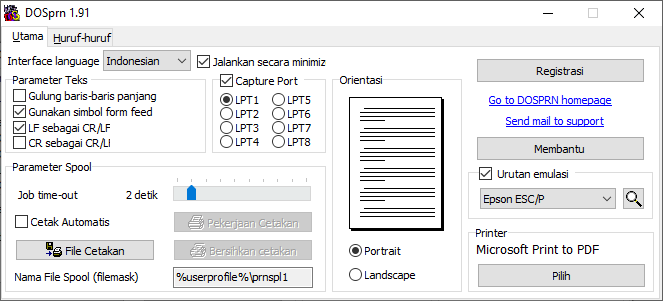
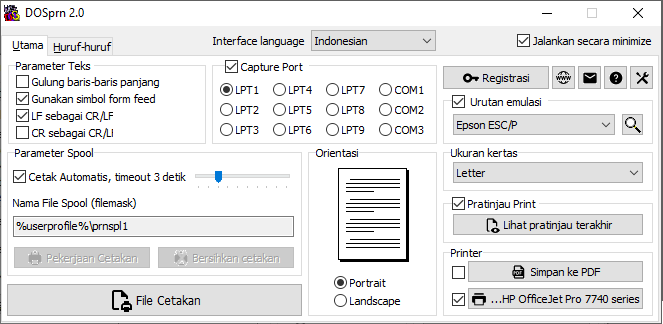
v2.0

diff --git a/readme.htm b/readme.htm
@@ -1,5 +1,5 @@
 <!DOCTYPE HTML PUBLIC "-//W3C//DTD HTML 4.0 Transitional//EN">
-<HTML><HEAD><TITLE>Manual DOSPRN 1.91</TITLE>
+<HTML><HEAD><TITLE>Manual DOSPRN 2.0</TITLE>
 <META http-equiv="Content-Type" content="text/html; charset=utf-8">
 <META http-equiv="Content-Language" content="id">
 <META name="Keywords"  content="DOS, printers, program, print, printer, USB, programs, LPT, DOS program, software, national, language, internanional" >
@@ -23,7 +23,7 @@
     <TD width="100%">      <table border="0" cellspacing="0" cellpadding="0">
         <tr>
           <td width="50"><IMG src="images/logo.gif" ALT="Mencetak dari DOS di ke/terhadap printer ber jalan pada Windows98, WinXP, Windows2000" width="42" height="39"></td>
-          <td width="281"><font size="6"><b>DOSPRN </b></font><font size="6"><b>1.91</b></font></td>
+          <td width="281"><font size="6"><b>DOSPRN </b></font><font size="6"><b>2.0</b></font></td>
           <td width="194">      
       <table border="2" bgcolor="#C0C0C0" cellpadding="4" cellspacing="4">
         <tr>
@@ -54,7 +54,7 @@
       <P>DOSPRN membantu untuk mengakhiri masalah ini. Anda dapat menggunakan ini dengan program DOS dan mengkombinasikan printer.</P>
       <P align="justify">DOSPRN didistribusikan sebagai<B> Shareware </B>Anda dapat pelajari bagaimana menggunakan DOSPRN selama waktu percobaan. Setelah periode ini, anda harus registrasi copyan anda atau hapus ini secara permanen dari komputer anda dengan utility uninstall pada Group Program DOSPRN. .</P>
       <H3 align="justify">Installasi</H3>
-      <P align="justify">Download dan jalankan file extract <I> <a href="https://www.dosprn.com/DOSprn191.exe">DOSprn191.exe</a></I> . Anda akan ditanyai beberapa pertanya-pertanyaan sederhana. Selama instalasi, DOSPRN mengcopy semua file yang diperlukan dan shortcut ke komputer anda. .</P>
+      <P align="justify">Download dan jalankan file extract <I> <a href="https://www.dosprn.com/DOSprn200.exe">DOSprn200.exe</a></I> . Anda akan ditanyai beberapa pertanya-pertanyaan sederhana. Selama instalasi, DOSPRN mengcopy semua file yang diperlukan dan shortcut ke komputer anda. .</P>
       <H3 align="justify">Program Start</H3>Anda dapat memulai DOSPRN dengan mengklik shotcut pada desktop anda atau pada forlder &quot;Statup&quot; (dalam hal ini anda telah memilih opsi ini selama penginstallan). Setalah menjalan DOSPRN, anda dapat menemukan iconnya pada area tray (dekat jam system, biasanya pada pojok kanan bawah), <IMG src="images/trayw8.gif" alt="Display icon and progress of printing in tray area" align="absMiddle" border="0"> DOSPRN siap untuk bekerja. . 
       <H3>Fitur-fitur Program</H3>
       <P>Jika anda klik kanan icon DOSPRN pada tray menu, anda akan melihat satu menu windows kecil. Menu ini memberikan akses ke opsi program utama. Opsi-opsi menu :<IMG src="images/popup.gif" ALT="Mangatur pencetakan DOS dengan menu popup" align="right" 

diff --git a/index.htm b/index.htm
@@ -1,6 +1,6 @@
 <!DOCTYPE HTML PUBLIC "-//W3C//DTD HTML 4.0 Transitional//EN">
 <HTML><HEAD><META name="verify-v1" content="sGZcTdiuqcbY81ijEB5h/fiesdTJtZN5i2KgOh+onKY=" /> 
-<TITLE>DOSPRN 1.91. Mencetak ke printer windows dari program dos</TITLE>
+<TITLE>DOSPRN 2.0. Mencetak ke printer windows dari program dos</TITLE>
 <META http-equiv="Content-Type" content="text/html; charset=utf-8">
 <META http-equiv="Content-Language" content="id">
 <META name="Keywords" content="mencetak printer dos,DOS, win, windows, win2k, windows2000, program, USB, program, LPT, program DOS, software, nasional, bahasa, international">
@@ -23,7 +23,7 @@
       <table border="0" cellspacing="0" cellpadding="0">
         <tr>
           <td width="50"><IMG src="images/logo.gif" ALT="Mencetak dari DOS di ke/terhadap printer ber jalan pada Windows98, WinXP, Windows2000" width="42" height="39"></td>
-          <td width="281"><font size="5"><b>DOSPRN&nbsp;1.91</b></font></td>
+          <td width="281"><font size="5"><b>DOSPRN&nbsp;2.0</b></font></td>
           <td width="194">      
       <table border="2" bgcolor="#C0C0C0" cellpadding="4" cellspacing="4">
         <tr>
@@ -55,7 +55,7 @@
       <P>DOSPRN memungkinkan anda untuk menggunakan satu program DOS tua baik dengan <b> baru</b> <b> printer</b> tanpa tergantung dari jenis mereka (Ya, USB dan printer jaringan, print-servers, dan PDF-printers juga!)</P>
       <P align="center"><IMG height="200" src="images/fontsw8.png" ALT="Windows huruf-huruf TrueType secara terpilih"></P>
       <P>DOSPRN juga bermanfaat jika satu program DOS adalah di/dalam anda <b> bahasa anda</b>. Jika printer anda tidak mendukung bahasa anda di/dalam gaya teks, DOSPRN akan satu penolong baik.</P>
-      <P>DOSPRN adalah didistribusikan sebagai shareware. Download ini <I><B> <A href="https://www.dosprn.com/DOSprn191.exe"> SEKARANG</A></B></I> 
+      <P>DOSPRN adalah didistribusikan sebagai shareware. Download ini <I><B> <A href="https://www.dosprn.com/DOSprn200.exe"> SEKARANG</A></B></I> 
       </P></TD></TR>
   <TR>
     <TD align="middle" width="550" height="26">

diff --git a/news.htm b/news.htm
@@ -1,5 +1,5 @@
 <!DOCTYPE HTML PUBLIC "-//W3C//DTD HTML 4.0 Transitional//EN">
-<HTML><HEAD><TITLE>Bagian baru DOSPRN 1.91</TITLE>
+<HTML><HEAD><TITLE>Bagian baru DOSPRN 2.0</TITLE>
 <META http-equiv="Content-Language" content="id">
 <META http-equiv="Content-Type" content="text/html; charset=utf-8">
 <META name="Keywords"  content="berita pencetakan dos, driver dos printer, printer dos, driver printer usb, perintah pencetakan dos, DOS, printer-printer, program, pencetakan, printer, USB, programs, LPT, program DOS, software, nasional, bahasa, international" >
@@ -23,7 +23,7 @@
     <TD width="100%">      <table border="0" cellspacing="0" cellpadding="0">
         <tr>
           <td width="50"><IMG src="images/logo.gif" ALT="Mencetak dari DOS di ke/terhadap printer ber jalan pada Windows98, WinXP, Windows2000" width="42" height="39"></td>
-          <td width="281"><font size="6"><b>DOSPRN </b></font><font size="6"><b>1.91</b></font></td>
+          <td width="281"><font size="6"><b>DOSPRN </b></font><font size="6"><b>2.0</b></font></td>
           <td width="194">      
       <table border="2" bgcolor="#C0C0C0" cellpadding="4" cellspacing="4">
         <tr>
@@ -51,6 +51,16 @@
   <TR>
     <TD width="100%">
       <H3>Hal Baru</H3>
+      <P><B>Version 2.0</B></P>
+      + menambahkan opsi <a href="print-preview.htm">Pratinjau Cetak</a><br>
+      + menambahkan opsi <a href="pdf-settings.htm">Cetak Ke PDF</a><br>
+      + menambahkan dukungan port serial COM1..COM3<br>
+      + menambahkan opsi layanan Simpan dan Muat pengaturan<br>
+      + menambahkan kemampuan untuk membuat <a href="inline-qrcode.htm">kode QR</a> dari teks yang disematkan dalam laporan<br>
+      + menambahkan antarmuka bahasa dalam bahasa Mandarin Tradisional<br>
+      + menambahkan emulasi parsial rangkaian ETEN Cina<br>
+      * perubahan antarmuka besar<br>
+      * perbaikan bug kecil<br>
       <P><B>Version 1.91</B></P>
       + dukungan tambahan port paralel yang diperluas LPT4..LPT8<br>
       * mode senyap tetap untuk aplikasi DOS layar penuh<br>

diff --git a/download.htm b/download.htm
@@ -1,5 +1,5 @@
 <!DOCTYPE HTML PUBLIC "-//W3C//DTD HTML 4.0 Transitional//EN">
-<HTML><HEAD><TITLE>download DOSPRN 1.91 sekarang</TITLE>
+<HTML><HEAD><TITLE>download DOSPRN 2.0 sekarang</TITLE>
 <META http-equiv="Content-Language" content="id">
 <META http-equiv="Content-Type" content="text/html; charset=utf-8">
 <META name="Keywords"  content="download dosprn" >
@@ -22,7 +22,7 @@
     <TD width="100%">      <table border="0" cellspacing="0" cellpadding="0">
         <tr>
           <td width="50"><IMG src="images/logo.gif" ALT="Mencetak dari DOS di ke/terhadap printer ber jalan pada Windows98, WinXP, Windows2000" width="42" height="39"></td>
-          <td width="281"><font size="6"><b>DOSPRN </b></font><font size="6"><b>1.91</b></font></td>
+          <td width="281"><font size="6"><b>DOSPRN </b></font><font size="6"><b>2.0</b></font></td>
           <td width="194">      
       <table border="2" bgcolor="#C0C0C0" cellpadding="4" cellspacing="4">
         <tr>
@@ -53,9 +53,9 @@
       <p>Kita betul-betul merekomendasikan bahwa anda secara menyeluruh me-review <satu href="readme.htm">Manual DOSPRN</satu> dan <satu href="faq.htm">kita FAQ</satu>.<br>
       <br>
 
-      <a href="https://www.dosprn.com/DOSprn191.exe">
+      <a href="https://www.dosprn.com/DOSprn200.exe">
 
-      Klik di sini untuk mendownload file <i>DOSprn191.exe (1.7 Mb)</i></a><br>
+      Klik di sini untuk mendownload file <i>DOSprn200.exe (1.7 Mb)</i></a><br>
       <br>
       DOSPRN akan mengingatkan anda tentang registrasi setiap kali anda cetakan laporan dari aplikasi DOS anda. Jika anda mempunyai pertanyaan apapun tentang DOSPRN silahkan merasakan bebas ke/pada <satu href="mailto:dukungan@dosprn.com"> menghubungi kami</satu>.</p>
       <p></p></TD></TR>

diff --git a/vox.htm b/vox.htm
@@ -1,5 +1,5 @@
 <!DOCTYPE HTML PUBLIC "-//W3C//DTD HTML 4.0 Transitional//EN">
-<HTML><HEAD><TITLE>DOSPRN 1.91 testimonials and user reviews</TITLE>
+<HTML><HEAD><TITLE>DOSPRN 2.0 testimonials and user reviews</TITLE>
 <META http-equiv=Content-Language content=en-us>
 <META http-equiv=Content-Type content="text/html; charset=utf-8">
 <META name=Description content="What spoke ordinary users and writers in technical reviews about DOSPRN software">
@@ -20,7 +20,7 @@
 <TABLE cellSpacing=0 cellPadding=6 width=50% style="max-width:640px" border=0>
   <TR>
     <TD width=100%>
-      <div style="float:left"><IMG src="images/logo.gif" ALT="DOS USB print under Windows 8, Windows 7, Windows XP, Windows2000, Windows98"> <font size="5"><b>&nbsp;DOSPRN&nbsp;1.91&nbsp;</b></font></div>
+      <div style="float:left"><IMG src="images/logo.gif" ALT="DOS USB print under Windows 8, Windows 7, Windows XP, Windows2000, Windows98"> <font size="5"><b>&nbsp;DOSPRN&nbsp;2.0&nbsp;</b></font></div>
   
       <table border="2" bgcolor="#C0C0C0" cellpadding="4" cellspacing="4">
         <tr>
@@ -149,7 +149,7 @@
           </td>
         </tr>
         <tr>
-          <td><i>Francis G. McCloskey &lt;FrFrancis&#64;OhSaratoga.com&gt;</i><p>&quot;...A small bunch of us are still using DOSprn 1.91 with out DOS EnableOA program and think it's 
+          <td><i>Francis G. McCloskey &lt;FrFrancis&#64;OhSaratoga.com&gt;</i><p>&quot;...A small bunch of us are still using DOSprn 2.0 with out DOS EnableOA program and think it's 
 	  the best DOS to Windows printers program out there..........&quot;</p>
           <hr width="90%" color="#008000">
           </td>

diff --git a/order.htm b/order.htm
@@ -1,5 +1,5 @@
 <!DOCTYPE HTML PUBLIC "-//W3C//DTD HTML 4.0 Transitional//EN">
-<HTML><HEAD><TITLE>order pencetakan dos DOSPRN 1.91</TITLE>
+<HTML><HEAD><TITLE>order pencetakan dos DOSPRN 2.0</TITLE>
 <META http-equiv="Content-Language" content="id">
 <META http-equiv="Content-Type" content="text/html; charset=utf-8">
 <META name="Keywords"  content="DOS print order, DSO print purchase, printers, program, print, printer, USB, programs, LPT, DOS program, software, national, language, internanional" >
@@ -23,7 +23,7 @@
     <TD width="100%">      <table border="0" cellspacing="0" cellpadding="0">
         <tr>
           <td width="50"><IMG src="images/logo.gif" ALT="Mencetak dari DOS di ke/terhadap printer ber jalan pada Windows98, WinXP, Windows2000" width="42" height="39"></td>
-          <td width="281"><font size="6"><b>DOSPRN </b></font><font size="6"><b>1.91</b></font></td>
+          <td width="281"><font size="6"><b>DOSPRN </b></font><font size="6"><b>2.0</b></font></td>
           <td width="194">      
       <table border="2" bgcolor="#C0C0C0" cellpadding="4" cellspacing="4">
         <tr>
@@ -65,7 +65,7 @@
 
       <P>
       If your DOSPRN's trial period has been expired now you can download and install
-      a <a href="https://www.dosprn.com/DOSprn191.exe">special "vacation" build</a> of DOSPRN 1.91. The trial period will be 
+      a <a href="https://www.dosprn.com/DOSprn200.exe">special "vacation" build</a> of DOSPRN 2.0. The trial period will be 
       expanded up to August, 1.
       </P>
 -->

diff --git a/sequences.htm b/sequences.htm
@@ -1,5 +1,5 @@
 <!DOCTYPE HTML PUBLIC "-//W3C//DTD HTML 4.0 Transitional//EN">
-<HTML><HEAD><TITLE>DOSPRN 1.91 supported ESC sequences</TITLE>
+<HTML><HEAD><TITLE>DOSPRN 2.0 supported ESC sequences</TITLE>
 <META http-equiv="Content-Type" content="text/html; charset=utf-8">
 <META name="Keywords"  content="dos printer driver, dos printer, dos usb driver, dos print command, DOS, printers, program, print, printer, USB, programs, LPT, DOS program, software, national, language, internanional" >
 <META name="Description"  content="DOSPRN memungkinkan untuk gunakan program dos favorit anda dengan printer-printer baru secara independen dari tipe-tipenya (ya dan USB juga !)" ><meta http-equiv="Content-Language" content="id"><!-- by Sisulizer -->
@@ -22,7 +22,7 @@
     <TD width="100%">      <table border="0" cellspacing="0" cellpadding="0" width="630">
         <tr>
           <td width="50"><IMG src="images/logo.gif" ALT="Mencetak dari DOS di ke/terhadap printer ber jalan pada Windows98, WinXP, Windows2000" width="42" height="39"></td>
-          <td width="345"><font size="6"><b>DOSPRN </b></font><font size="6"><b>1.91</b></font></td>
+          <td width="345"><font size="6"><b>DOSPRN </b></font><font size="6"><b>2.0</b></font></td>
           <td width="229">      
       <table border="2" bgcolor="#C0C0C0" cellpadding="4" cellspacing="4">
         <tr>

diff --git a/languages.htm b/languages.htm
@@ -5,7 +5,7 @@
 <meta name="Description" content="DOSPRN memungkinkan untuk gunakan program dos favorit anda dengan printer-printer baru secara independen dari tipe-tipenya (ya dan USB juga !)">
 <meta name="GENERATOR" content="Microsoft FrontPage 6.0">
 <meta name="ProgId" content="FrontPage.Editor.Document">
-<TITLE>Bahasa-bahasa yang didukung DOSPRN 1.91</TITLE>
+<TITLE>Bahasa-bahasa yang didukung DOSPRN 2.0</TITLE>
 <meta http-equiv="Content-Language" content="id"><!-- by Sisulizer -->
 <meta name=viewport content="width=device-width, initial-scale=1">
 
@@ -26,7 +26,7 @@
     <TD width="100%">      <table border="0" cellspacing="0" cellpadding="0">
         <tr>
           <td width="50"><IMG src="images/logo.gif" ALT="Mencetak dari DOS di ke/terhadap printer ber jalan pada Windows98, WinXP, Windows2000" width="42" height="39"></td>
-          <td width="281"><font size="6"><b>DOSPRN </b></font><font size="6"><b>1.91</b></font></td>
+          <td width="281"><font size="6"><b>DOSPRN </b></font><font size="6"><b>2.0</b></font></td>
           <td width="194">      
       <table border="2" bgcolor="#C0C0C0" cellpadding="4" cellspacing="4">
         <tr>

diff --git a/login.htm b/login.htm
@@ -1,5 +1,5 @@
 <!DOCTYPE HTML PUBLIC "-//W3C//DTD HTML 4.0 Transitional//EN">
-<HTML><HEAD><TITLE>DOSPRN 1.91 login user yang telah registrasi</TITLE>
+<HTML><HEAD><TITLE>DOSPRN 2.0 login user yang telah registrasi</TITLE>
 <META http-equiv="Content-Language" content="id">
 <META http-equiv="Content-Type" content="text/html; charset=utf-8">
 <META name="Keywords"  content="dos printer driver, dos printer, dos usb driver, dos print command, DOS, printers, program, print, printer, USB, programs, LPT, DOS program, software, national, language, internanional" >
@@ -22,7 +22,7 @@
     <TD width="100%">      <table border="0" cellspacing="0" cellpadding="0">
         <tr>
           <td width="50"><IMG src="images/logo.gif" ALT="Mencetak dari DOS di ke/terhadap printer ber jalan pada Windows98, WinXP, Windows2000" width="42" height="39"></td>
-          <td width="281"><font size="6"><b>DOSPRN </b></font><font size="6"><b>1.91</b></font></td>
+          <td width="281"><font size="6"><b>DOSPRN </b></font><font size="6"><b>2.0</b></font></td>
           <td width="194">      
       <table border="2" bgcolor="#C0C0C0" cellpadding="4" cellspacing="4">
         <tr>

diff --git a/codepages.htm b/codepages.htm
@@ -1,4 +1,4 @@
-<HTML><HEAD><TITLE>DOSPRN-1.91-codepages-support</TITLE>
+<HTML><HEAD><TITLE>DOSPRN-2.0-codepages-support</TITLE>
 <META http-equiv="Content-Type" content="text/html; charset=utf-8">
 <META name="Keywords" content="driver dos printer, kode dos, dos codepages, dos codepages, dos printer, driver dos usb, driver dos cetakan, DOS, printer, program, cetakan, printer, USB, program, LPT, Program DOS, perangkat lunak, nasional, bahasa, internanional">
 <META name="Description" content="DOSPRN memungkinkan untuk gunakan program dos favorit anda dengan printer-printer baru secara independen dari tipe-tipenya (ya dan USB juga !)"><meta http-equiv="Content-Language" content="id"><!-- by Sisulizer -->
@@ -22,7 +22,7 @@
 
 <TR>
 <TD width="50"><IMG height="39" alt="Mencetak dari DOS di ke/terhadap printer ber jalan pada Windows98, WinXP, Windows2000" src="images/logo.gif" width="42"></TD>
-<TD width="281"><FONT size="6"><B>DOSPRN 1.91</B></FONT></TD>
+<TD width="281"><FONT size="6"><B>DOSPRN 2.0</B></FONT></TD>
 <TD width="194">
 <TABLE cellSpacing="4" cellPadding="4" bgColor="#c0c0c0" border="2">
 

diff --git a/faq.htm b/faq.htm
@@ -1,5 +1,5 @@
 <!DOCTYPE HTML PUBLIC "-//W3C//DTD HTML 4.0 Transitional//EN">
-<HTML><HEAD><TITLE>Halaman FAQ DOSPRN 1.91</TITLE>
+<HTML><HEAD><TITLE>Halaman FAQ DOSPRN 2.0</TITLE>
 <META http-equiv="Content-Language" content="id">
 <META http-equiv="Content-Type" content="text/html; charset=utf-8">
 <META name="Description" content="Jawaban diatas sering ditanyakan untuk DOSPRN dan pencetakan dos printer">
@@ -23,7 +23,7 @@
     <TD width="100%">      <table border="0" cellspacing="0" cellpadding="0">
         <tr>
           <td width="50"><IMG src="images/logo.gif" ALT="Mencetak dari DOS di ke/terhadap printer ber jalan pada Windows98, WinXP, Windows2000" width="42" height="39"></td>
-          <td width="281"><font size="6"><b>DOSPRN </b></font><font size="6"><b>1.91</b></font></td>
+          <td width="281"><font size="6"><b>DOSPRN </b></font><font size="6"><b>2.0</b></font></td>
           <td width="194">      
       <table border="2" bgcolor="#C0C0C0" cellpadding="4" cellspacing="4">
         <tr>

diff --git a/awards.htm b/awards.htm
@@ -1,5 +1,5 @@
 <!DOCTYPE HTML PUBLIC "-//W3C//DTD HTML 4.0 Transitional//EN">
-<HTML><HEAD><TITLE>DOSPRN 1.91 awards</TITLE>
+<HTML><HEAD><TITLE>DOSPRN 2.0 awards</TITLE>
 <META http-equiv=Content-Language content=en-us>
 <META http-equiv=Content-Type content="text/html; charset=utf-8">
 <META name=Description content="DOSPRN software awarded by software directories">
@@ -19,7 +19,7 @@
 <TABLE cellSpacing=0 cellPadding=6 width=50% style="max-width:640px" border=0>
   <TR>
     <TD width=100%>
-      <div style="float:left"><IMG src="images/logo.gif" ALT="DOS USB print under Windows 8, Windows 7, Windows XP, Windows2000, Windows98"> <font size="5"><b>&nbsp;DOSPRN&nbsp;1.91&nbsp;</b></font></div>
+      <div style="float:left"><IMG src="images/logo.gif" ALT="DOS USB print under Windows 8, Windows 7, Windows XP, Windows2000, Windows98"> <font size="5"><b>&nbsp;DOSPRN&nbsp;2.0&nbsp;</b></font></div>
   
       <table border="2" bgcolor="#C0C0C0" cellpadding="4" cellspacing="4">
         <tr>
